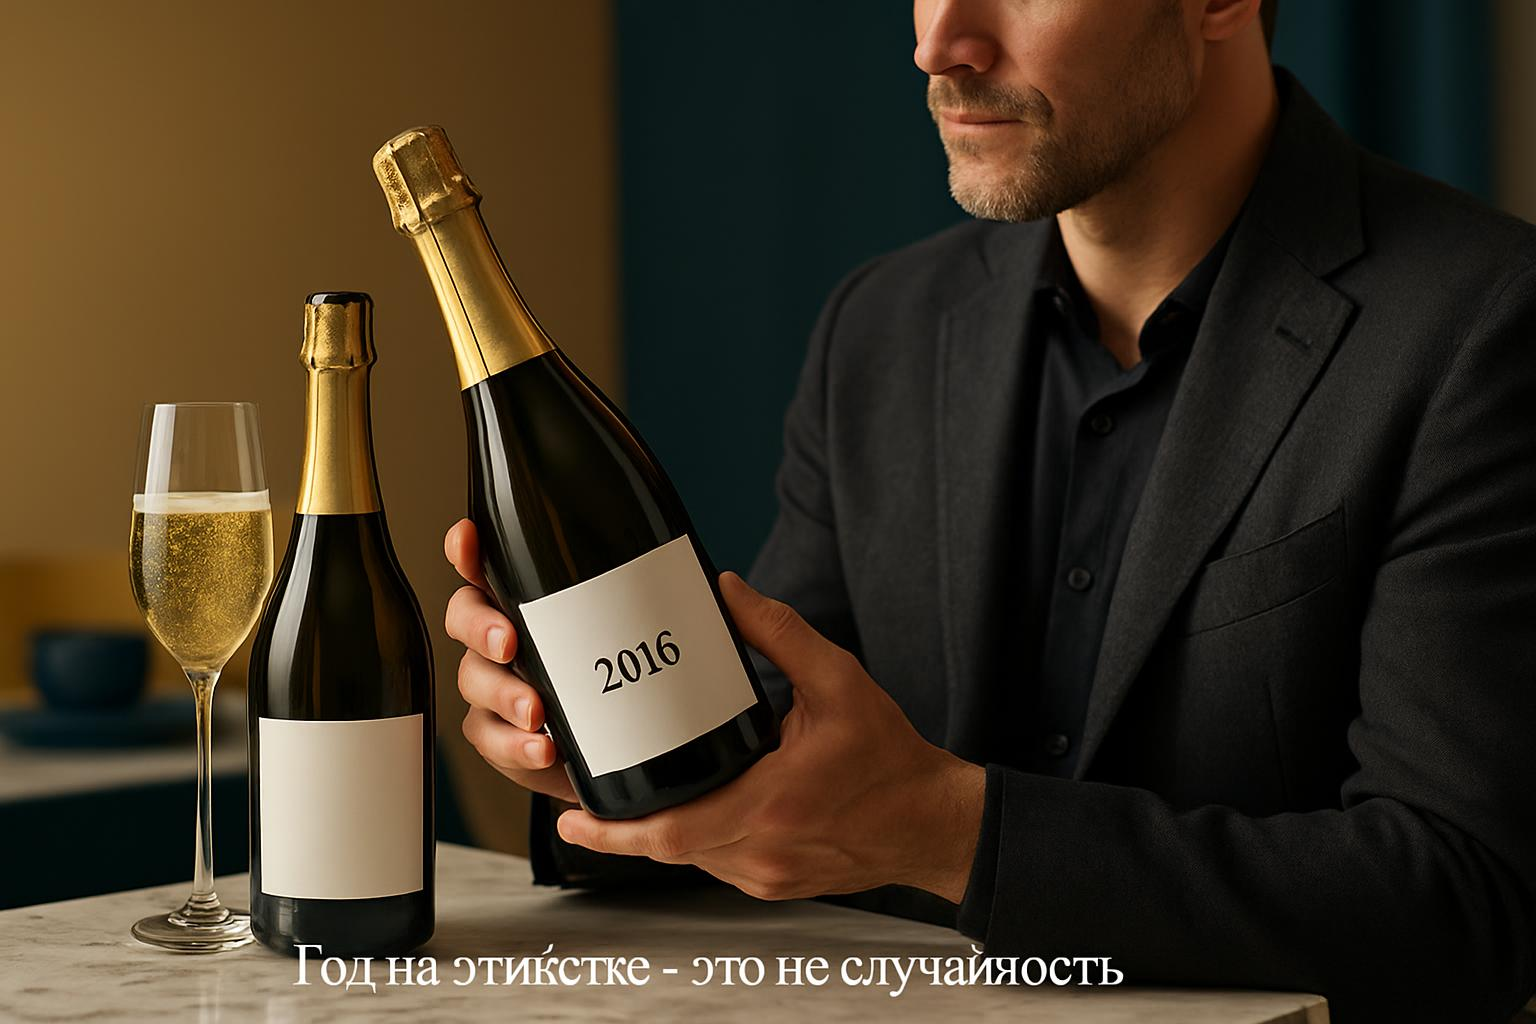
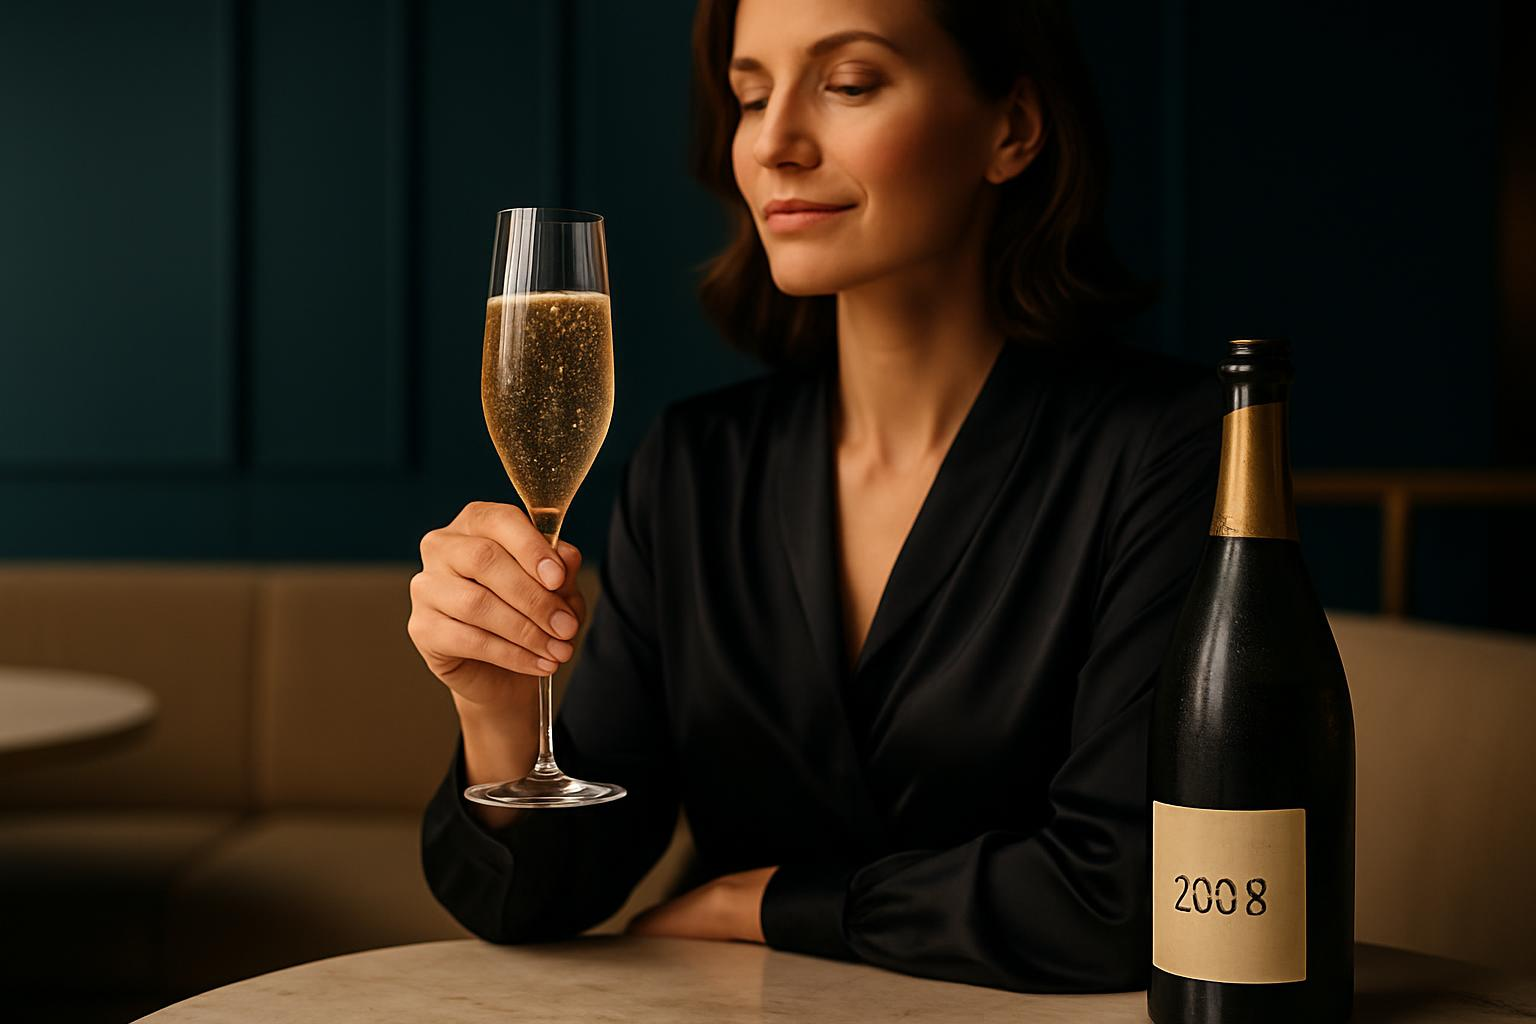
Regenerate cover-1 for last 2 articles (no text on images)

diff --git a/scripts/regenerate_covers.py b/scripts/regenerate_covers.py
@@ -1,0 +1,88 @@
+"""
+Перегенерирует cover-1.jpg для последних N статей.
+URL в feed.xml не меняется — заменяется только содержимое файла.
+Все картинки гарантированно без текста.
+"""
+import json
+import sys
+from pathlib import Path
+
+sys.path.insert(0, str(Path(__file__).resolve().parent))
+import claude_api
+import openai_api
+
+REPO_ROOT = Path(__file__).resolve().parent.parent
+POSTS_INDEX = REPO_ROOT / "posts" / "posts_index.json"
+IMAGES_DIR = REPO_ROOT / "images"
+
+# Сколько последних статей перегенерить (можно изменить)
+N_LAST = 2
+
+
+PROMPT_SYSTEM = """Ты — арт-директор винного журнала. Получаешь заголовок и лид статьи, генерируешь промпт для гpt-image-1 для заголовочной фотографии.
+
+ТРЕБОВАНИЯ К ФОТО:
+- Профессиональная современная фотография как для глянцевого журнала
+- Современный (не древний), технологичный, аккуратный, минималистичный, но богатый интерьер
+- Палитра: тёплый кремовый (Pantone 7403) и тёмно-сине-зелёный (Pantone 302) — как акценты в интерьере, без фанатизма, не заливкой
+- Реальные винные аксессуары (реальные модели бокалов, штопоров, декантеров — не выдуманные кривые формы)
+- Бокалы только большого объёма, тонкая ножка, тонкое стекло
+- Рука держит аксессуар правильно: штопор — за рычаг, бокал — за ножку, декантер — за горловину
+- Обязательно фигура человека (можно не целиком — рабочая область: руки, торс, плечо)
+- Реальное использование за столом, дома или в ресторане
+- НЕ нарушать физические законы (жидкость в бокале естественно)
+- БЕЗ ТЕКСТА, БЕЗ НАДПИСЕЙ, БЕЗ ЛОГОТИПОВ, БЕЗ ВОДЯНЫХ ЗНАКОВ — только чистая фотография
+
+Промпт минимум 70 слов на русском. Включай: главный объект, кто и что делает, ракурс камеры, освещение, окружение, эмоциональный тон.
+
+ФОРМАТ ОТВЕТА — JSON: {"prompt": "..."}"""
+
+
+def make_prompt(title: str, lead: str) -> str:
+    user = f"Заголовок: {title}\nЛид: {lead}\n\nСгенерируй промпт для заголовочного фото."
+    result = claude_api.generate_json(PROMPT_SYSTEM, user, max_tokens=600, temperature=0.7)
+    return result["prompt"]
+
+
+def main():
+    posts = json.loads(POSTS_INDEX.read_text(encoding="utf-8"))
+    posts = sorted(posts, key=lambda p: p.get("published_at", ""), reverse=True)
+    target = posts[:N_LAST]
+
+    print(f"Перегенерим cover-1.jpg для {len(target)} последних статей:")
+    for p in target:
+        print(f"  - {p['title'][:70]}")
+
+    for p in target:
+        slug = p["slug"]
+        folder = IMAGES_DIR / slug
+        cover_path = folder / "cover-1.jpg"
+        print(f"\n=== {slug} ===")
+
+        if not folder.exists():
+            print(f"  [!] папка не найдена: {folder}")
+            continue
+
+        print(f"  Claude генерит новый промпт ...")
+        try:
+            prompt = make_prompt(p["title"], p.get("lead", ""))
+            print(f"  промпт: {prompt[:150]}...")
+        except Exception as e:
+            print(f"  [!] Claude упал: {e}")
+            continue
+
+        print(f"  OpenAI генерит новое фото ...")
+        try:
+            img = openai_api.generate_image(prompt)
+            cover_path.write_bytes(img)
+            print(f"  ✅ записан {cover_path.name} ({len(img)} байт)")
+        except Exception as e:
+            print(f"  [!] OpenAI упал: {e}")
+            continue
+
+    print("\nГотово")
+    return 0
+
+
+if __name__ == "__main__":
+    sys.exit(main())
